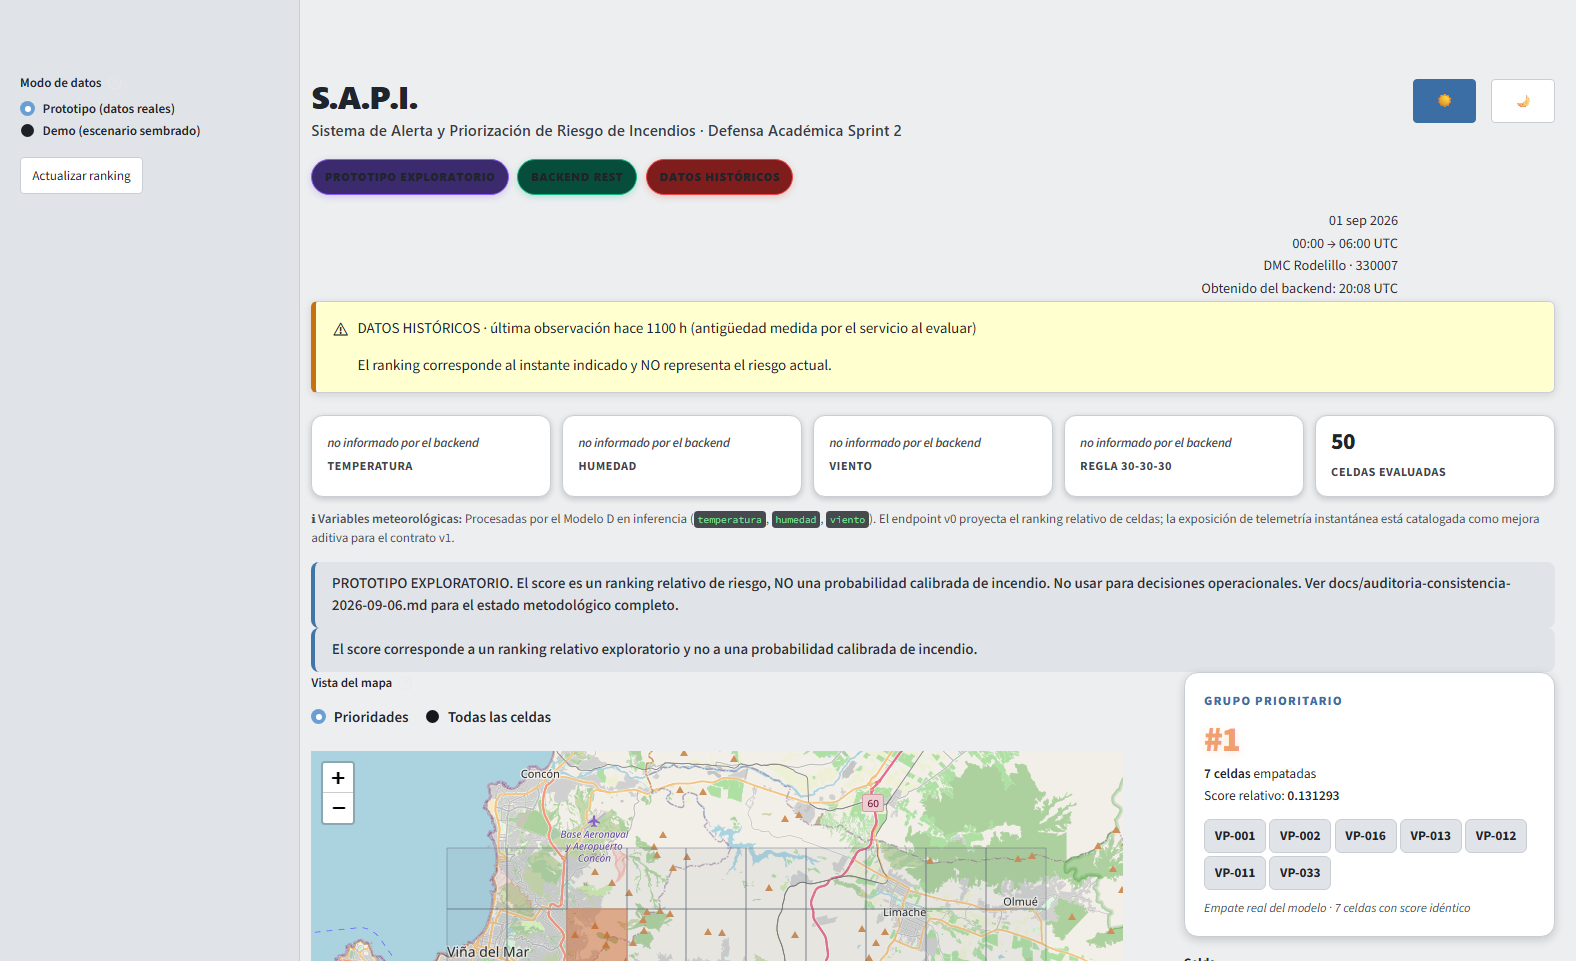
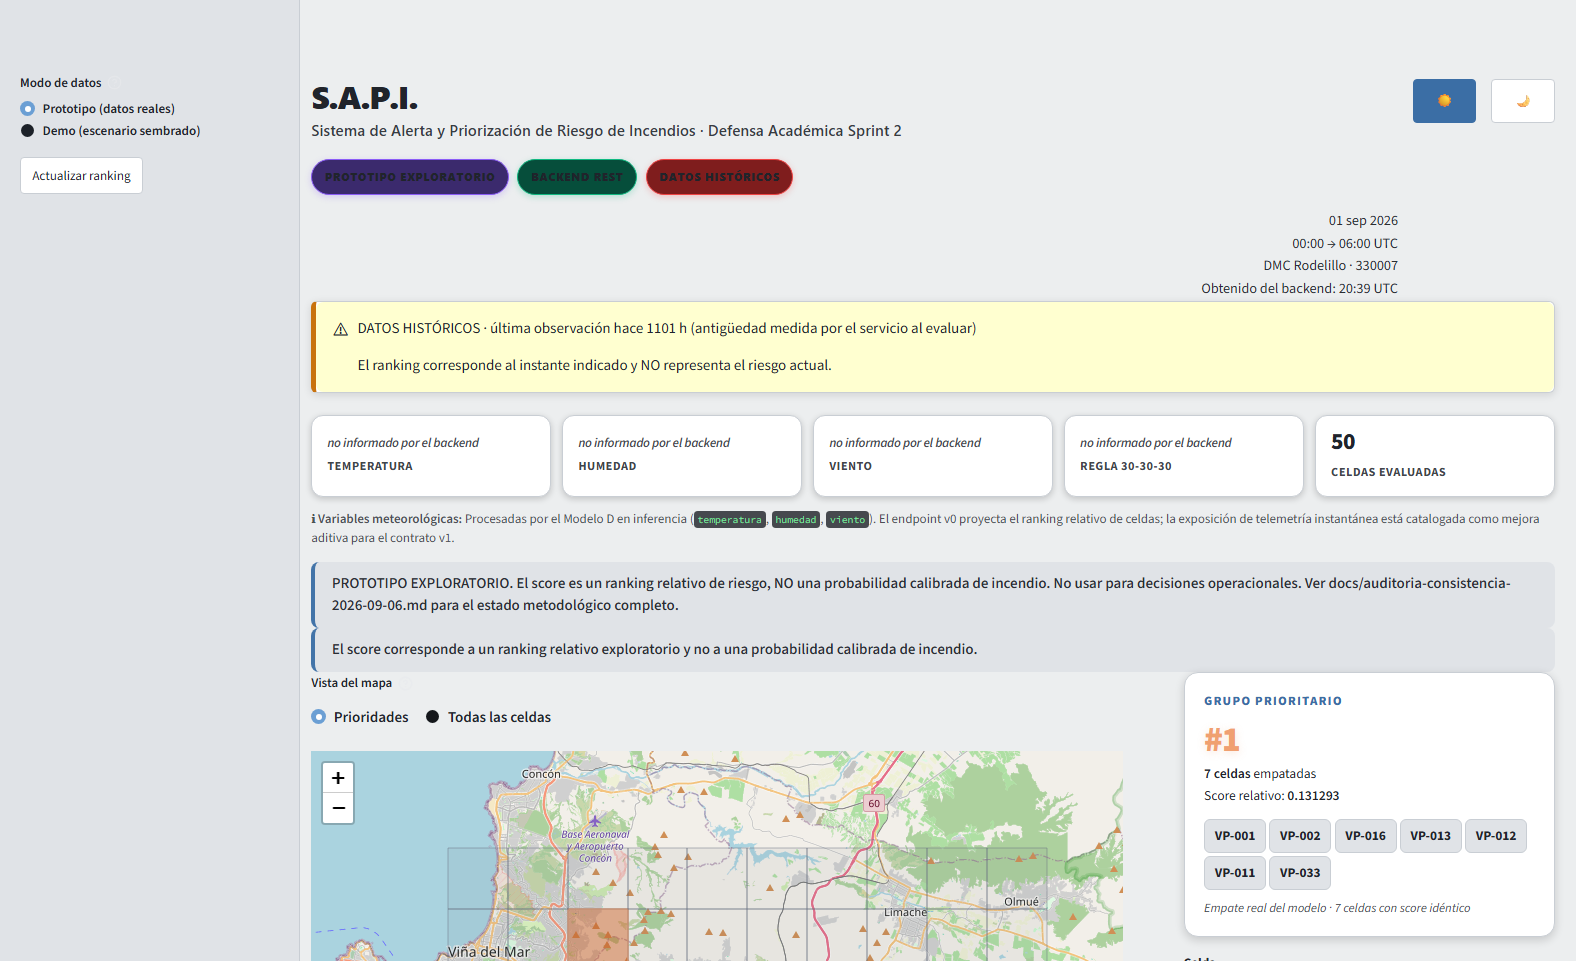
fix(ui): harden metadata presentation, relocate tech expander, and attach multi-res audit evidence

diff --git a/app/components/ranking_backend_view.py b/app/components/ranking_backend_view.py
@@ -56,7 +56,7 @@ _MAP_MODE_PRIORIDADES = "Prioridades"
 _MAP_MODE_TODAS = "Todas las celdas"
 _SESSION_MAP_MODE = "ranking_v2_map_mode"
 _SESSION_SELECTED = "ranking_v2_selected_cell"
-_ORDER_PRIORITY_OFFICIAL = "Prioridad relativa (oficial backend)"
+_ORDER_PRIORITY_OFFICIAL = "Orden entregado por el backend"
 _ORDER_PRIORITY_TIES_BY_ID = "Prioridad con empates ordenados por ID"
 _ORDER_CELL_ID = "Identificador de celda (VP-001 → VP-050)"
 _CACHE_TTL_SECONDS = 300
@@ -789,58 +789,79 @@ def _render_tech_expander(view: RankingView) -> None:
         if view.station_available
         else NOT_PROVIDED
     )
-    lines = [
-        f"- **Origen del ranking:** backend Spring Boot, `GET {RANKING_PATH}` "
-        f"(obtenido {_iso_utc(view.fetched_at)}; cache de {_CACHE_TTL_SECONDS // 60} min)",
-        f"- **Schema:** `{view.schema_version}` · semántica `{view.score_semantics}` · "
-        f"validación científica: `{str(view.scientific_model_validation).lower()}`",
-        f"- **Modelo:** {view.model_version} — **{view.model_status or NOT_PROVIDED}**",
-        f"- **Inputs fingerprint:** `{view.inputs_fingerprint}`",
-        f"- **Forecast time:** {_iso_utc(view.forecast_time)}",
+    model_str = (
+        f"{view.model_version} ({view.model_status})"
+        if view.model_status
+        else f"{view.model_version}"
+    )
+    firms_detail = (
+        f"origen {view.firms_origin or NOT_PROVIDED} · cobertura hasta "
+        f"{view.firms_coverage_end.isoformat() if view.firms_coverage_end else NOT_PROVIDED}"
+        f" · lag {view.firms_lag_days if view.firms_lag_days is not None else NOT_PROVIDED}"
+        f" · estado {view.firms_status or NOT_PROVIDED}"
+        if view.firms_provenance_available
+        else NOT_PROVIDED
+    )
+    sections = [
         (
-            f"- **Ventana evaluada:** {_iso_utc(view.forecast_time)} → {_iso_utc(window_end)} "
-            f"(h={view.horizon_hours}h)"
-            if window_end is not None
-            else (
-                "- **Ventana evaluada:** ventana no representable"
-                if view.horizon_hours is not None
-                else f"- **Ventana evaluada:** horizonte {NOT_PROVIDED}"
+            "**Modelo y evaluación**\n"
+            f"- **Origen del ranking:** backend Spring Boot, `GET {RANKING_PATH}` "
+            f"(obtenido {_iso_utc(view.fetched_at)}; cache de {_CACHE_TTL_SECONDS // 60} min)\n"
+            f"- **Schema:** `{view.schema_version}` · semántica `{view.score_semantics}` · "
+            f"validación científica: `{str(view.scientific_model_validation).lower()}`\n"
+            f"- **Modelo:** {model_str}\n"
+            f"- **Inputs fingerprint:** `{view.inputs_fingerprint}`\n"
+            f"- **Forecast time:** {_iso_utc(view.forecast_time)}\n"
+            + (
+                f"- **Ventana evaluada:** {_iso_utc(view.forecast_time)} → {_iso_utc(window_end)} "
+                f"(h={view.horizon_hours}h)"
+                if window_end is not None
+                else (
+                    "- **Ventana evaluada:** ventana no representable"
+                    if view.horizon_hours is not None
+                    else f"- **Ventana evaluada:** horizonte {NOT_PROVIDED}"
+                )
             )
         ),
-        f"- **Estación DMC:** {station}",
         (
-            f"- **Weather timestamp usado:** {_iso_utc(view.weather_timestamp)}"
-            if view.weather_timestamp is not None
-            else f"- **Weather timestamp usado:** {NOT_PROVIDED}"
+            "**Procedencia y frescura de datos**\n"
+            f"- **Estación DMC:** {station}\n"
+            + (
+                f"- **Weather timestamp usado:** {_iso_utc(view.weather_timestamp)}\n"
+                if view.weather_timestamp is not None
+                else f"- **Weather timestamp usado:** {NOT_PROVIDED}\n"
+            )
+            + (
+                f"- **Antigüedad de la observación (al evaluar):** {view.age_hours:.1f} h — "
+                f"**{view.freshness}**\n"
+                if view.freshness_available
+                else f"- **Antigüedad / frescura de la observación:** {NOT_PROVIDED}\n"
+            )
+            + "- **Fuente de detecciones:** NASA FIRMS\n"
+            + f"- **Procedencia FIRMS:** {firms_detail}"
+            + (
+                "\n  *(Sincronía FIRMS evaluada respecto a fecha T; cumple umbral operacional ≤3 días)*"
+                if view.firms_provenance_available and view.firms_status == "FIRMS AL DÍA"
+                else ""
+            )
         ),
         (
-            f"- **Antigüedad de la observación (al evaluar):** {view.age_hours:.1f} h — "
-            f"**{view.freshness}**"
-            if view.freshness_available
-            else f"- **Antigüedad / frescura de la observación:** {NOT_PROVIDED}"
+            "**Trazabilidad y topografía**\n"
+            f"- **Topografía:** {REFERENCE_TOPOGRAPHY_LABEL}\n"
+            "- **Integración de contrato:** Detalle meteorológico y FIRMS desagregado por celda "
+            "no expuesto en el contrato `sapi-ranking-v0` (consolidación regional v0)."
         ),
-        "- **Fuente de detecciones:** NASA FIRMS",
-        (
-            "- **Procedencia FIRMS:** "
-            f"origen {view.firms_origin or NOT_PROVIDED} · cobertura hasta "
-            f"{view.firms_coverage_end.isoformat() if view.firms_coverage_end else NOT_PROVIDED}"
-            f" · lag {view.firms_lag_days if view.firms_lag_days is not None else NOT_PROVIDED}"
-            f" · estado {view.firms_status or NOT_PROVIDED}"
-            if view.firms_provenance_available
-            else f"- **Procedencia FIRMS:** {NOT_PROVIDED}"
-        ),
-        f"- **Topografía:** {REFERENCE_TOPOGRAPHY_LABEL}",
     ]
     missing = tuple(
         name for name in _CONTRACT_METADATA_FIELDS if getattr(view, name) is None
     )
     if missing:
-        lines.append(
+        sections.append(
             "- **Metadata opcional no informada por el backend:** "
             + ", ".join(f"`{name}`" for name in missing)
         )
     with st.expander("Información técnica y fuentes", expanded=False):
-        st.markdown("\n".join(lines))
+        st.markdown("\n\n".join(sections))
         st.caption(FIXED_DISCLAIMER)
 
 
@@ -895,10 +916,9 @@ def render_ranking_backend_dashboard() -> None:
         if clicked and clicked != st.session_state.get(_SESSION_SELECTED):
             st.session_state[_SESSION_SELECTED] = clicked
             st.rerun()
+        _render_tech_expander(view)
     with side_col:
         _render_priority_panel(view)
         selected = st.selectbox("Celda", options=cell_ids, key=_SESSION_SELECTED)
         _render_selected_panel(view, selected)
         _render_ranking_expander(view)
-
-    _render_tech_expander(view)

diff --git a/app/theme/css.py b/app/theme/css.py
@@ -539,6 +539,11 @@ def build_stylesheet(mode: str = t.APPEARANCE_CLARO) -> str:
             color: var(--sapi-text-primary) !important;
             border-top: none !important;
         }}
+        [data-testid="stExpander"] [data-testid="stExpanderDetails"] code {{
+            word-break: break-all !important;
+            overflow-wrap: break-word !important;
+            white-space: pre-wrap !important;
+        }}
 
         /* ── Selectores y Dropdowns (P0): contraste consistente en input y menú flotante ── */
         div[data-baseweb="select"] > div {{
